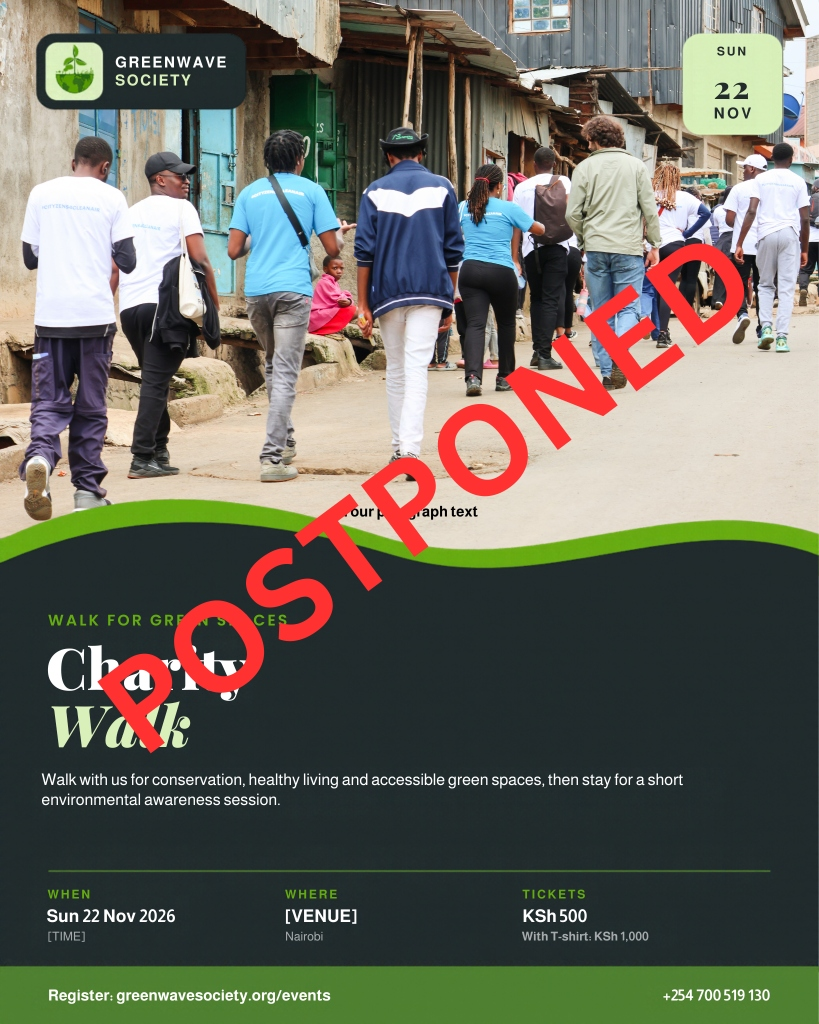
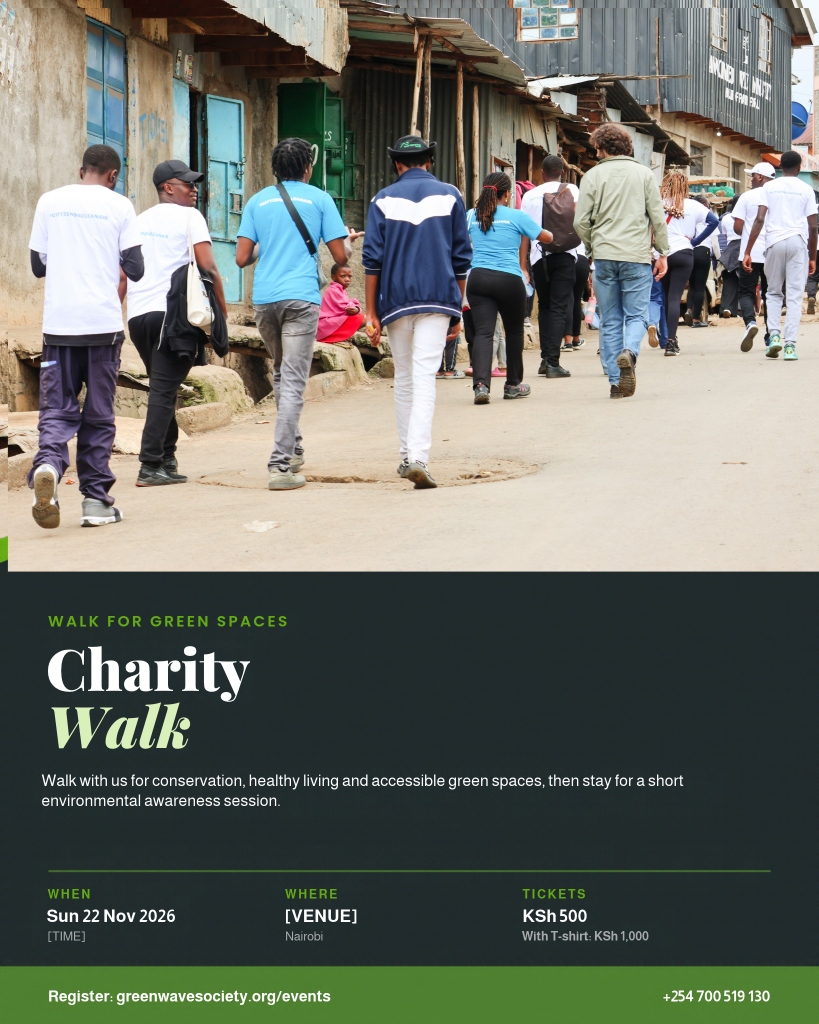
Replace postponed Charity Walk poster with clean version

diff --git a/src/lib/events/campaign-2026.ts b/src/lib/events/campaign-2026.ts
@@ -84,7 +84,7 @@ Questions: ${CAMPAIGN_CONTACT}`,
 
 // Posters live in public/posters/campaign-2026 and are shown on the event pages.
 export const EVENT_POSTERS: Record<string, { src: string; alt: string }> = {
-  "charity-walk": { src: "/posters/campaign-2026/charity-walk.jpg", alt: "Greenwave Charity Walk poster, Sunday 22 November 2026 (Postponed)" },
+  "charity-walk": { src: "/posters/campaign-2026/charity-walk.jpg", alt: "Greenwave Charity Walk poster, Sunday 22 November 2026" },
   "young-entrepreneurs-networking-brunch": { src: "/posters/campaign-2026/young-entrepreneurs-networking-brunch.jpg", alt: "Young Entrepreneurs Networking Brunch poster, Sunday 29 November 2026, 9:00 AM to 12:00 PM" },
   "skills-for-change-workshop": { src: "/posters/campaign-2026/skills-for-change-workshop.jpg", alt: "Skills for Change Workshop poster, Saturday 5 December 2026" },
   "sports-tournament": { src: "/posters/campaign-2026/sports-tournament.jpg", alt: "Greenwave Sports Tournament poster, Saturday 12 December 2026" },

diff --git a/src/lib/cms/placements.ts b/src/lib/cms/placements.ts
@@ -391,7 +391,6 @@ export async function getAvailableCmsImages(): Promise<AvailableCmsImage[]> {
   } catch {
     const defaultPosters = [
       "/posters/campaign-2026/charity-walk.jpg",
-      "/posters/campaign-2026/charity-walk-clean.jpg",
       "/posters/campaign-2026/young-entrepreneurs-networking-brunch.jpg",
       "/posters/campaign-2026/skills-for-change-workshop.jpg",
       "/posters/campaign-2026/sports-tournament.jpg",
